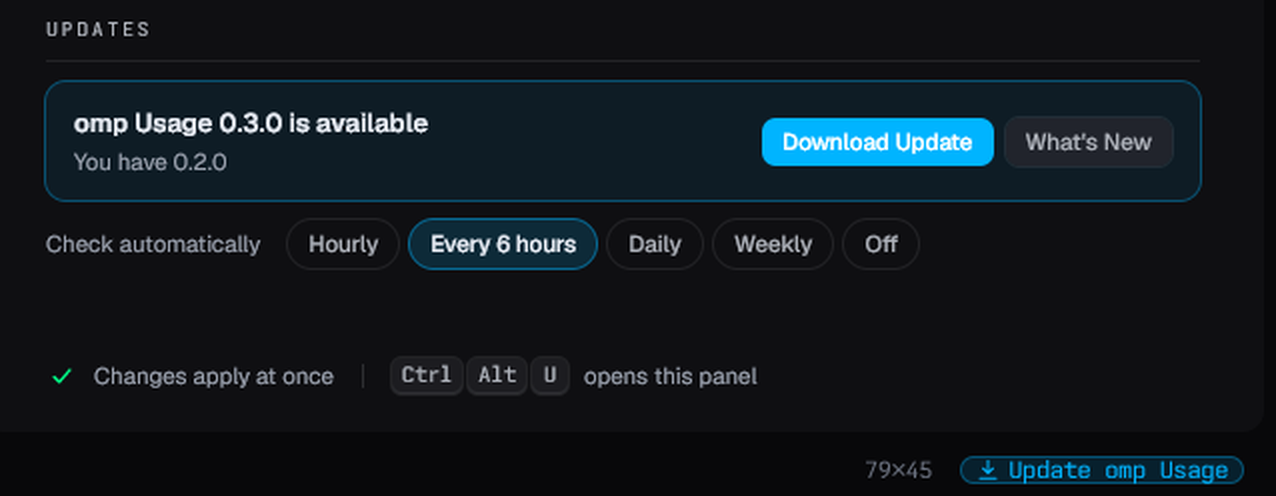
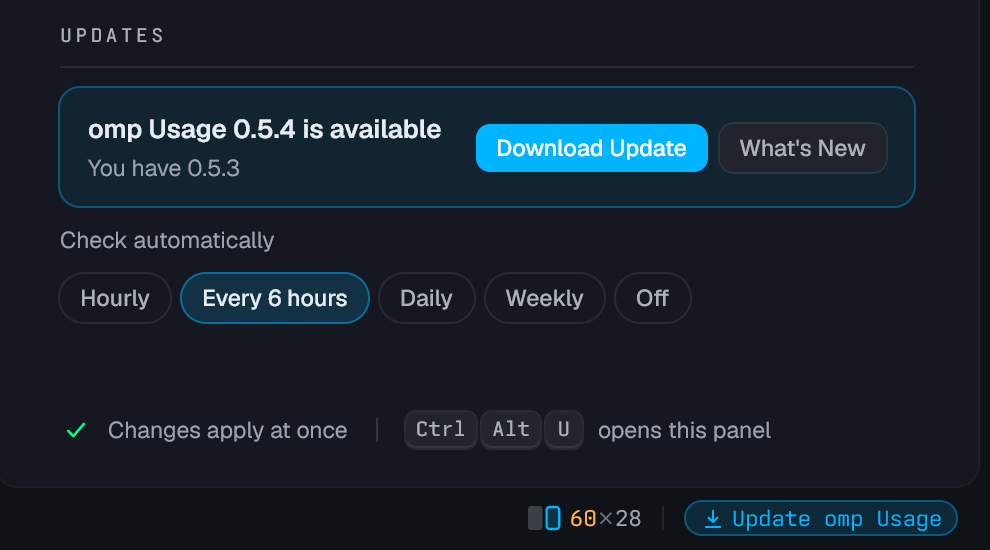
0.5.4: Show the Update omp Usage pill in Tern's widget bar
Tern replaced its status line with the widget bar. The Update omp Usage
button still showed there, among the Plugin segments, but as a plain grey
segment instead of the accent pill it had in the status line.

Now it is the accent pill again, in every widget bar look.

The update toast and the README now point to the widget bar: the pill and
the usage button show while the widget bar has its Plugin segments widget
(palette › Edit widgets…).

diff --git a/bar.css b/bar.css
@@ -4,14 +4,15 @@
 	display: block !important;
 }
 
-/* Update omp Usage (update.luau) in the status line: an accent pill, as Tern's own Restart to update */
-#statusline .sl-plugin[title='plugin.omp-usage.update'] {
+/* Update omp Usage (update.luau) in the widget bar's Plugin segments: an accent pill, as Tern's own Restart to
+   update, whatever look the widget has */
+#widgetbar .wg-seg[title='plugin.omp-usage.update'] {
 	padding: 0 8px;
 	border-radius: 999px;
 	color: var(--accent);
 	background-color: rgb(from var(--accent) r g b / 14%);
 	box-shadow: inset 0 0 0 1px rgb(from var(--accent) r g b / 35%);
 }
-#statusline .sl-plugin[title='plugin.omp-usage.update']:hover {
+#widgetbar .wg-seg[title='plugin.omp-usage.update']:hover {
 	background-color: rgb(from var(--accent) r g b / 22%);
 }

diff --git a/README.md b/README.md
@@ -30,7 +30,7 @@ Hover it for each window's meter, reset time and saved resets:
 - **Settings panel** (Ctrl+Alt+U) for what shows, the order, each provider's windows and colors.
 - **Installs from Tern**: Preferences › Plugins › Install, or `tern plugin install`; it sets up its omp extension
   itself.
-- **Updates itself** like Tern does: an **Update omp Usage** pill in the status line, one click to see what's new
+- **Updates itself** like Tern does: an **Update omp Usage** pill in the widget bar, one click to see what's new
   and install it. Nothing pops up over your work.
 
 <img src="docs/images/update-card.png" alt="The update card: omp Usage 0.3.0 is available, You have 0.2.0 · 6 new commits, What's new with each commit's full message, and Download Update, Skip This Version and Not Now" width="991">
@@ -40,7 +40,7 @@ Hover it for each window's meter, reset time and saved resets:
 | `omp/extensions/usage-remaining.js` | omp extension: fetches `omp usage --json`, sets the line as an extension status, and caches every model's and provider's line. |
 | `plugin.toml`, `window.luau`, `update.luau`, `bar.css` | Tern plugin: draws the line above the context bar, hides the statuses it redraws from omp's bar (keeping the session cost), and adds the settings panel and updates. Installed from Tern, it also puts a loader in `~/.omp/agent/extensions` that runs the omp extension from the plugin's folder. |
 
-Tested with Tern 0.9.18 and omp 18.19.0 on Windows.
+Tested with Tern 0.9.26 and omp 18.22.0 on Windows.
 
 ## Install
 
@@ -112,7 +112,7 @@ An installed copy doesn't write its extension while `config.yml` already loads o
 
 ## Settings
 
-Open the panel with **Ctrl+Alt+U** (rebind `plugin.omp-usage.panel`), **usage** in the status bar, or **omp Usage:
+Open the panel with **Ctrl+Alt+U** (rebind `plugin.omp-usage.panel`), **usage** in the widget bar, or **omp Usage:
 Settings panel** in the palette. Changes apply at once, in every window.
 
 | Section | What it does |
@@ -187,12 +187,15 @@ started before the extension was updated stops writing it, so neither can put ba
 
 The plugin checks its repo every 6 hours (Hourly, Daily, Weekly or Off in the panel): a clone's remote, or for an
 installed copy a copy of the repo it keeps in its data folder. When there's a new version, a toast says so once and
-an **Update omp Usage** pill sits in the status line until you deal with it:
+an **Update omp Usage** pill sits in the widget bar until you deal with it:
 
-<img src="docs/images/update-status.png" alt="The settings panel's Updates section, omp Usage 0.3.0 is available, You have 0.2.0, with Download Update and What's New, and the Update omp Usage pill at the right of the status line" width="638">
+<img src="docs/images/update-status.png" alt="The settings panel's Updates section, omp Usage 0.5.4 is available, You have 0.5.3, with Download Update and What's New, and the Update omp Usage pill at the right of the widget bar" width="495">
 
-Click it (or **Check for Updates**) for the update card shown at the top: the version available, the one you have,
-and every new commit in full.
+The pill and **usage** are plugin segments: they show while the widget bar has its **Plugin segments** widget
+(palette › Edit widgets…).
+
+Click the pill (or **Check for Updates**) for the update card shown at the top: the version available, the one you
+have, and every new commit in full.
 
 | Button | What it does |
 | --- | --- |
@@ -236,7 +239,7 @@ update, or after the plugin's folder moved), it says so:
 | The card's reset dates flip between two values | An omp session from before an update is still writing the cache: restart omp sessions |
 | Ctrl+Alt+U does nothing | Another binding took it; bind `plugin.omp-usage.panel` to another chord |
 | Line stopped after an omp or Tern update | omp may have renamed what the plugin reads: ask omp to fix `omp-usage` |
-| No update pill | Turn Tern's status bar on, or use the panel's Updates section; checks may be Off |
+| No update pill, or no **usage** | Add the **Plugin segments** widget to Tern's widget bar (palette › Edit widgets…), or use the panel's Updates section; checks may be Off |
 | `omp Usage can't check for updates` | Needs git on `PATH`; a clone needs a branch tracking a remote, an installed copy its `upstream` file naming the repo (`https://github.com/jmazzola/tern-plugin-omp-usage.git`); the toast gives the reason |
 | `omp Usage couldn't set up its omp extension` | `~/.omp/agent/extensions` must be a folder omp Usage can write to; Tern's log has the error |
 | `omp Usage couldn't link its repo's root` | A clone linked to the deprecated `omp-usage` folder: run `tern plugin link .` in the repo folder |
